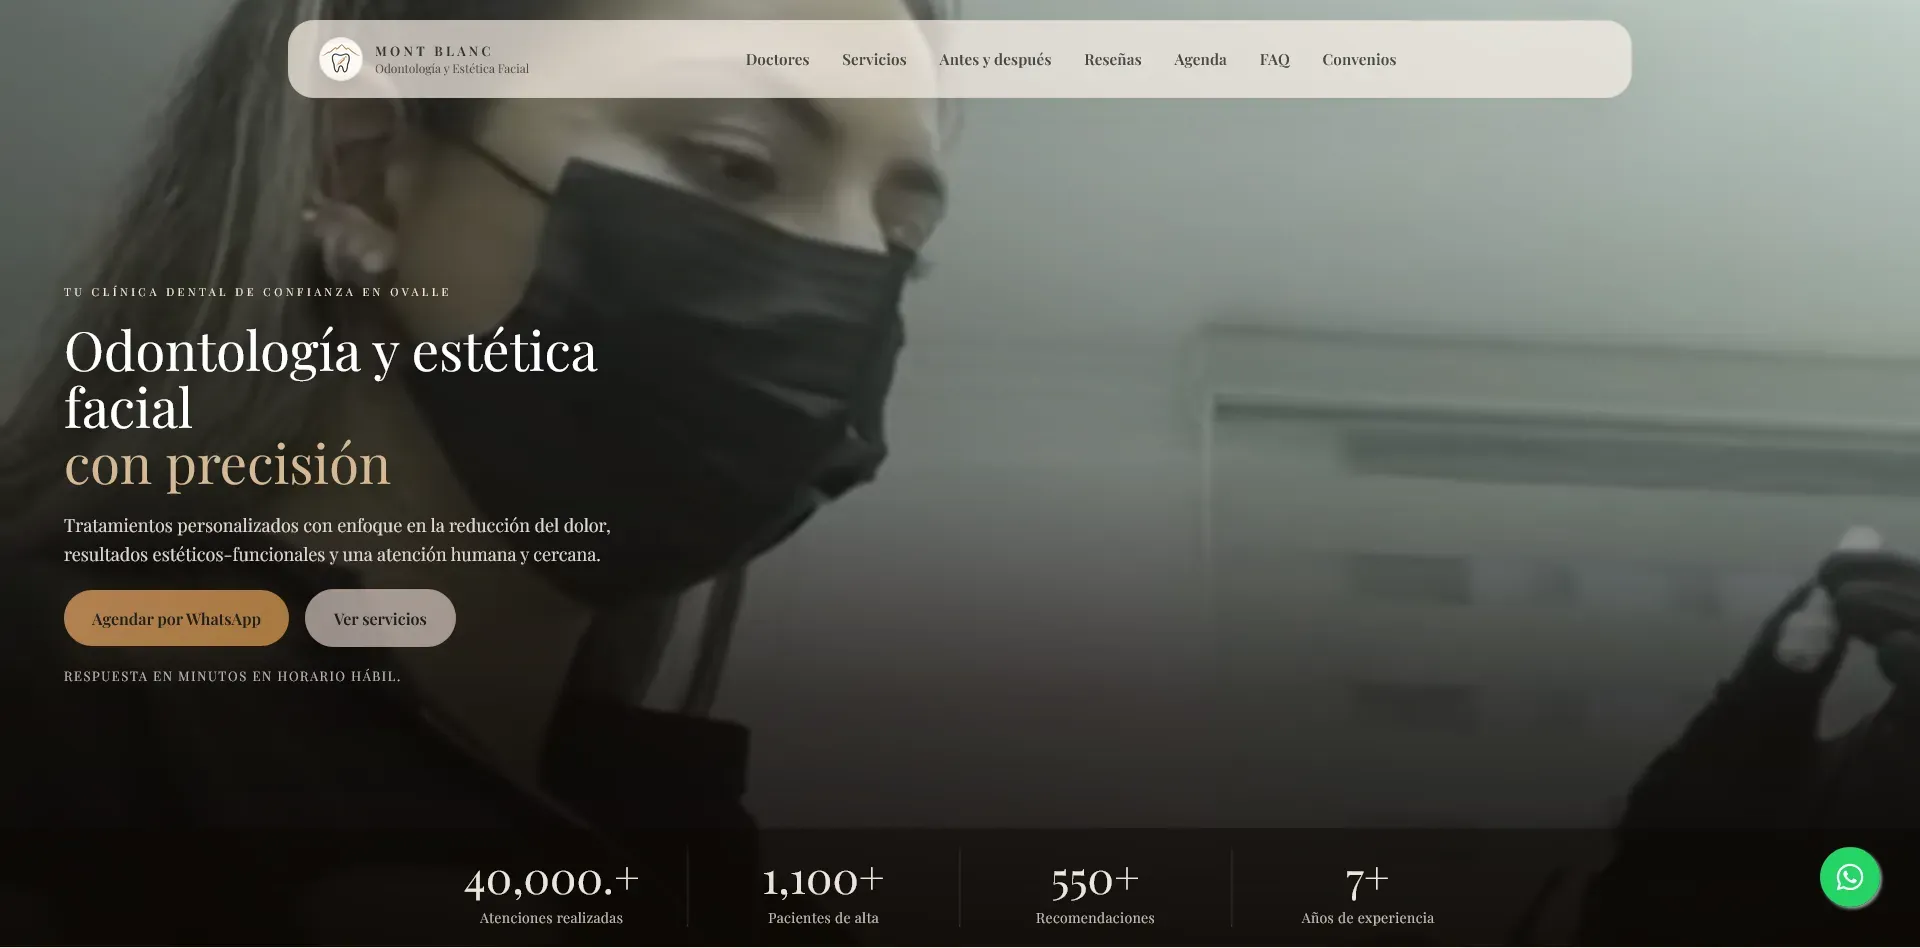
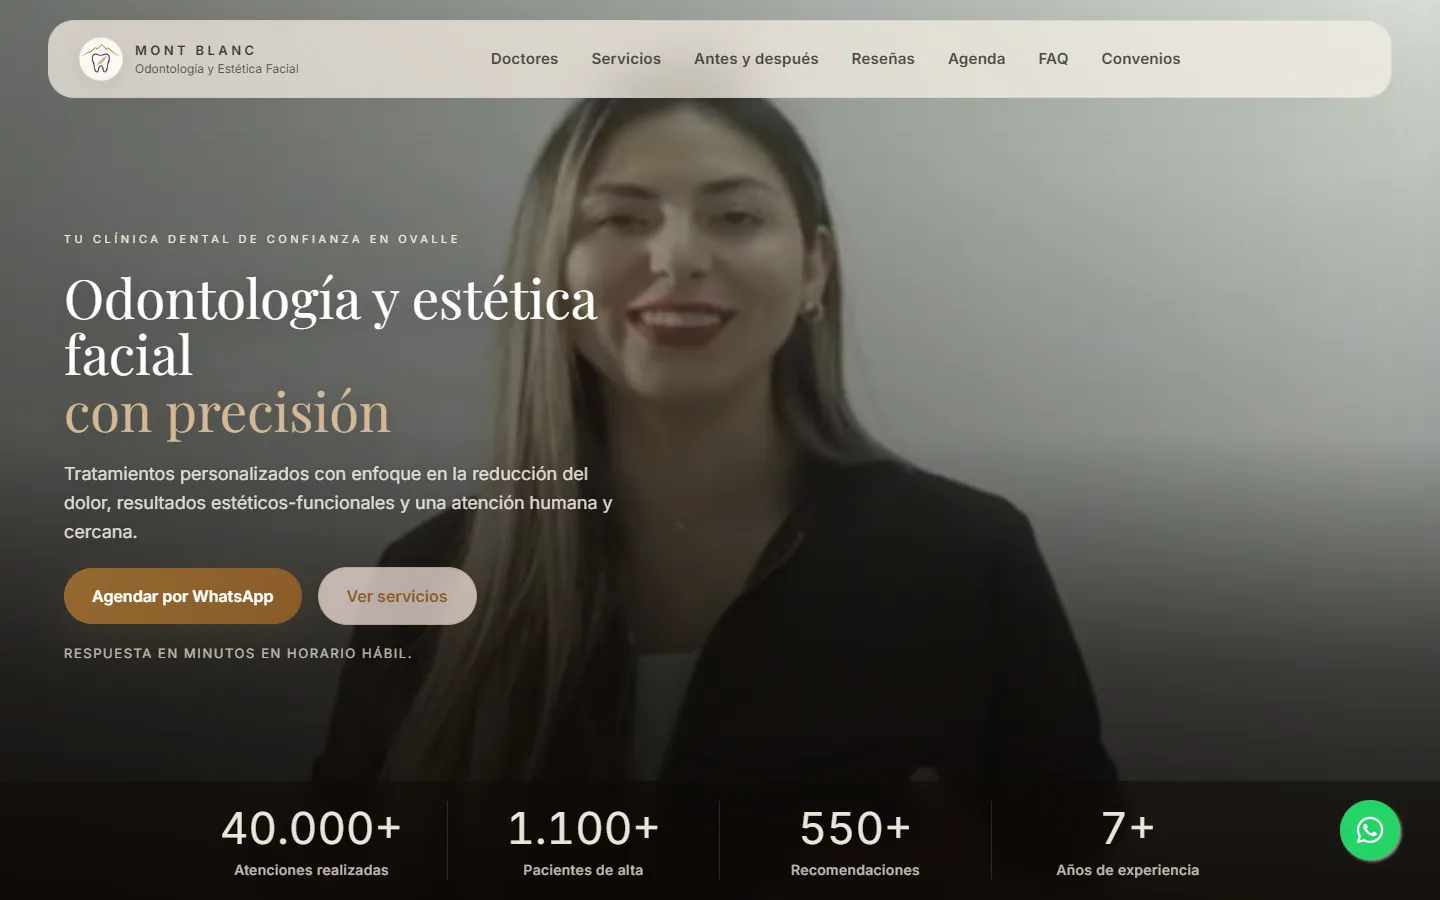
feat: imágenes de casos unificadas
- CaseCard: fondo de marca igual en todas las tarjetas y la captura
  dentro de una ventana de navegador, para que los colores de cada
  sitio no rompan la grilla.
- Capturas nuevas a 1440x900 de Mont Blanc, Propiedades Arenas,
  Dr. Ziller y El Fiorentino, más versión de celular (390 px) para el
  mockup de la página del caso (campo coverImageMobile). Pesan la
  mitad que las anteriores.
- Página del caso: corrige el desborde a 375 px de "Siguiente caso".

diff --git a/src/lib/api/types.ts b/src/lib/api/types.ts
@@ -94,6 +94,8 @@ export type CaseStudy = {
   title?: string;
   coverImage?: string;
   coverImageAlt?: string;
+  /** Captura del sitio en celular (390 px de ancho). */
+  coverImageMobile?: string;
   beforeTitle?: string;
   afterTitle?: string;
   beforePoints?: Array<{ text: string; tone?: string }>;
